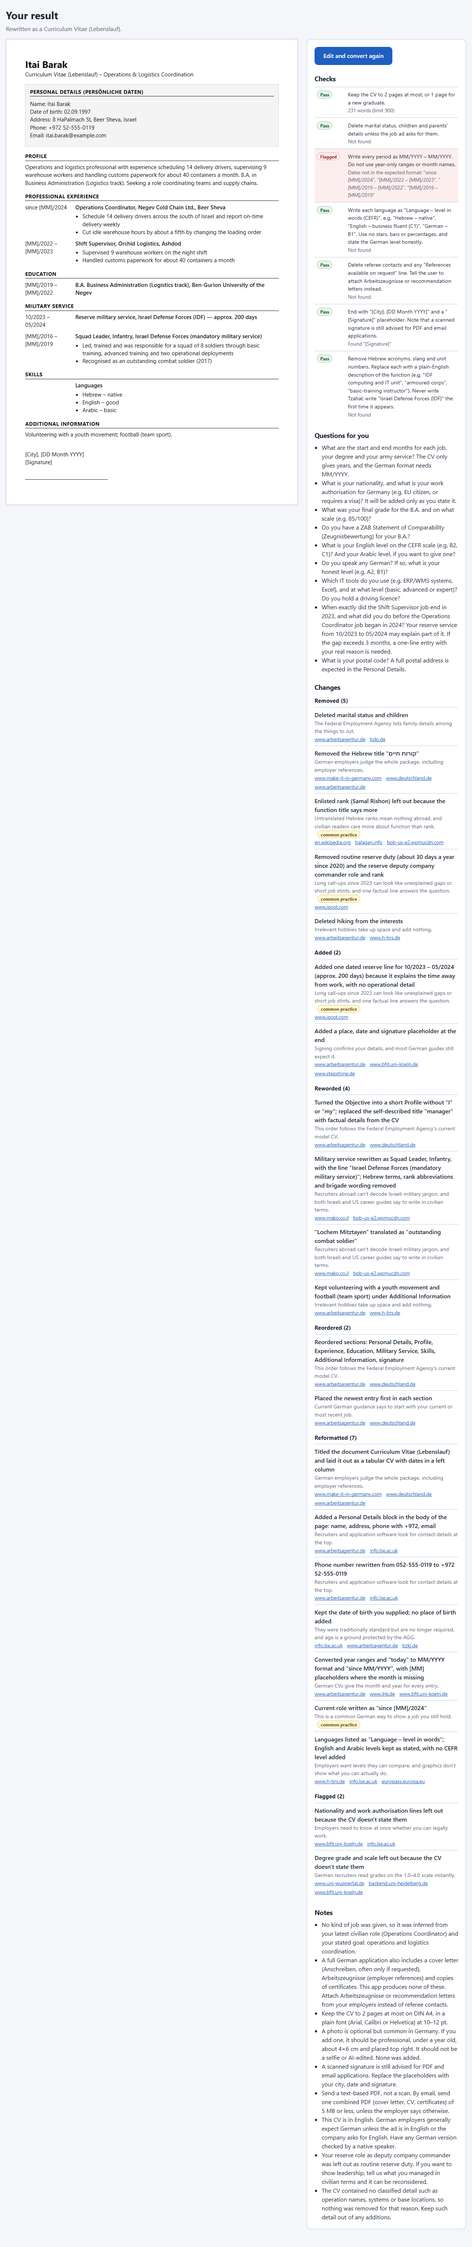
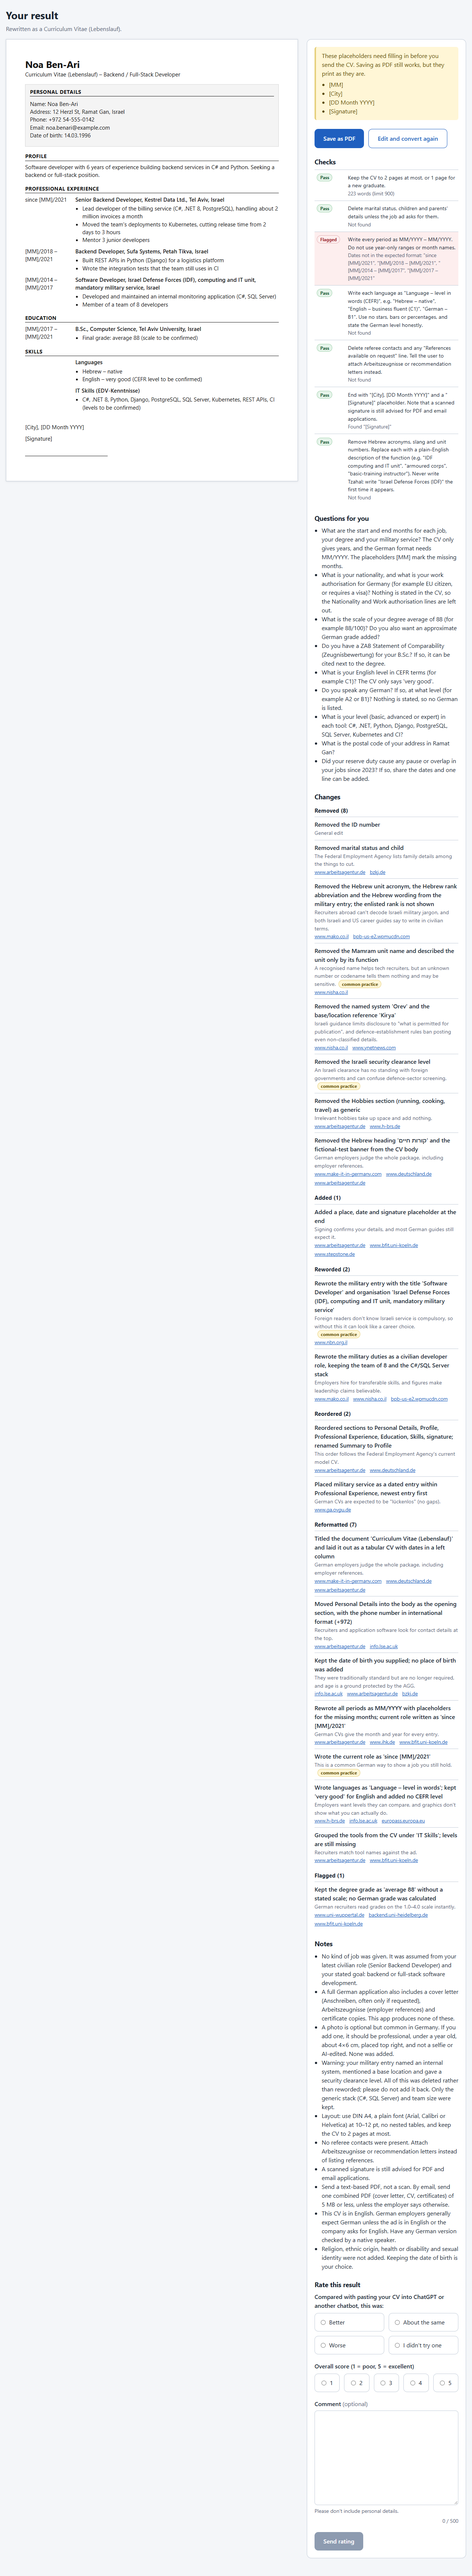
docs: README, demo outline, cut-line outcome and fresh screenshots (M9)

Changed region(s): [[0.6562, 0.0, 0.9688, 0.9992], [0.0312, 0.0, 0.5625, 0.1873], [0.0625, 0.1873, 0.125, 0.2186]]

diff --git a/docs/demo-video-outline.md b/docs/demo-video-outline.md
@@ -8,19 +8,17 @@
 |---|---|---|
 | 0:00–0:15 | An Israeli CV with the problems highlighted: date of birth, ID number, "Mamram, Samal", a years-only date range. | "This is a typical Israeli CV. Send it to a company in Berlin or Boston and half of it works against you: the date of birth, the ID number, and army jargon nobody abroad can read." |
 | 0:15–0:27 | The Convert page. | "CV Converter rewrites a CV for another country's hiring norms, and tells you exactly what it changed and why. It works both ways: Israelis applying abroad, and olim applying here." |
-| 0:27–0:52 | Choose Israeli CV → Germany. Paste the CV and press Convert; cut the wait. The result shows the tabular Lebenslauf with dates in MM/YYYY, a Personal Details block and a signature line. Scroll the changes list and open one source link (the Federal Employment Agency's guide). | "Germany expects a tabular CV, month-and-year dates and a signature. Every change is listed with the reason and a link to where the rule comes from. The army service became 'Software Developer, Israel Defense Forces, mandatory military service', with no acronyms and nothing classified." |
-| 0:52–1:05 | The checks panel (all pass, or one flag). The Questions list: "Do you have a German work permit?" | "Then the app checks its own output against the key rules, so they're verified, not just hoped for. If it needs a fact it doesn't have, like your work permit, it asks instead of guessing." |
-| 1:05–1:19 | Switch to Israel → US on the same CV. Show the Letter-size print preview and the word "résumé". | "Same CV to the US: a one-page résumé on US Letter paper, with no date of birth. 'Save as PDF' is the browser's own print dialog, with the right paper size set for you." |
-| 1:19–1:31 | The `uk-olah` fixture, CV from abroad → Israel: year-only dates, honest Hebrew level ("conversational, Ulpan Aleph"), the referee details removed. | "And for olim, the other way round: Israeli conventions, and an honest Hebrew level, because overstated languages get caught at interview." |
-| 1:31–1:49 | Under the hood: the `norms` table in pgAdmin or psql (rows with sources), then the architecture line from the README, then green CI and the test count. | "The rules live in Postgres: about 140 of them, each with its sources. That's the part a free chatbot doesn't have. React and Redux on the front, Express and Knex behind, Claude for the rewrite, deterministic checks after it. Your CV is never stored." |
-| 1:49–2:00 | The rating form, then an end card with the repo URL and "Paul Rivlin · Developers Institute Hackathon, Oct 2026". | "Next: my classmates test it on their own CVs and tell me whether it beat ChatGPT. Thanks for watching." |
+| 0:27–0:49 | Choose "My Israeli CV → abroad" and Germany. Paste `il-software-dev` and press Convert; cut the wait. The result shows the Lebenslauf with a date column, a Personal Details block and the "[City], [DD Month YYYY]" and "[Signature]" lines. Scroll the Changes list and open one source link (arbeitsagentur.de, the Federal Employment Agency). | "Germany expects a tabular CV and a signature. Every change is listed with its reason and a source link. The army service now reads 'Software Developer, Israel Defense Forces (IDF), computing and IT unit, mandatory military service, Israel': no acronyms, nothing classified." |
+| 0:49–1:04 | The date column: "since [MM]/2021", "[MM]/2018 – [MM]/2021". The date check marked Flagged. The placeholder notice listing [MM], [City], [DD Month YYYY] and [Signature]. The first question: "What are the start and end months for each job, your degree and your military service?" | "The CV only gave years, so the months show as [MM]. The app's own date check flags them, a notice lists every placeholder, and it asks for the months instead of inventing them." |
+| 1:04–1:19 | Same CV, Israel → United States. The résumé with no date of birth. The date check marked Flagged for "2021 – Present" and "2018 – 2021", and the question asking which months each job and the degree started and ended. Press Save as PDF and show the print preview on Letter. | "Same CV to the US: a résumé on US Letter, with no date of birth. Year-only dates are flagged here too, and it asks for the months. Save as PDF sets the paper size for you." |
+| 1:19–1:31 | `uk-olah`, "My CV from abroad → Israel": year ranges (2021–2024), Hebrew lowered from "fluent" to "Basic (Ulpan Aleph)", and, in the Changes list, the referees' names and contact details removed. | "For olim, the other way round: year ranges, no referees, and Hebrew lowered from 'fluent' to 'Basic (Ulpan Aleph)', because overstated languages get caught at interview." |
+| 1:31–1:49 | Under the hood: the `norms` table in pgAdmin or psql (rows with sources), then the architecture line from the README, then green CI and the test count. | "The rules live in Postgres: about 140 of them, each with its sources. That's what a free chatbot doesn't have. React and Redux in front, Express and Knex behind, Claude for the rewrite, deterministic checks after it. Your CV is never stored." |
+| 1:49–2:00 | Scroll to the end of the panel: the rating form, its last block. Then an end card with the repo URL and "Paul Rivlin · Developers Institute Hackathon, Oct 2026". | "Last, a rating form. Next, my classmates test it on their own CVs and tell me whether it beat ChatGPT. Thanks for watching." |
 
 **Recording notes**
 - The video is submitted as a Loom link. Record in Loom, or edit the clips as before and upload the finished video to Loom. Check it runs no longer than 2:00 and that the link opens for someone who isn't signed in.
 - Record each row as its own clip at 1920×1080 with the browser zoomed to 125%, then join them (Clipchamp is built into Windows 11).
 - Run the conversions before recording and cut the waiting out of the video. Don't fake any output; just trim the wait.
 - Pre-fill the text box from the fixtures; don't type on camera.
+- The German date format varies from run to run. In three runs of `il-software-dev` on 19 Oct, the missing months came out once as "[MM]/2021", once as "MM/2021" and once as plain years. Record a run that shows [MM]. If the run you keep shows something else, change the 0:49 voice-over to say what's on screen.
 - Keep the voice-over at about 150 words a minute. The draft above is about 260 words, roughly 105 seconds, which leaves room for pauses. The timings above give each line enough time. Add captions; judges often watch without sound.
-- If M7 (upload) shipped, swap the paste at 0:27 for a .docx upload; it reads better on screen.
-- If there's spare time at the end of day 2, record the 0:27–1:31 clips then, as insurance.
-- If M8 (ratings) didn't ship, end on the norms table and replace the rating shot with the end card.

diff --git a/README.md b/README.md
@@ -6,8 +6,21 @@ It works in both directions through Israel:
 - **Israelis applying abroad:** an Israeli CV, including army service, into a US résumé, a UK CV or a German Lebenslauf.
 - **Olim and other newcomers:** a CV from abroad into Israeli norms.
 
+![The result page for an Israeli CV rewritten as a German Lebenslauf: the CV with a date column on the left, and the placeholder notice and rule checks on the right](docs/screens/readme-result-de-1280.png)
+
 ## Status
-Being built during the Developers Institute hackathon (Full Stack + AI, part-time, May 2026 – December 2026), 15–20 October 2026. Work started on 13 October, the original start date, before the hackathon was postponed. Each milestone lands as its own pull request.
+Built during the Developers Institute hackathon (Full Stack + AI, part-time, May 2026 – December 2026), 15–20 October 2026. Work started on 13 October, the original start date, before the hackathon was postponed. Each milestone landed as its own pull request.
+
+What shipped:
+- Paste a CV as text.
+- Convert in four directions: an Israeli CV into a US résumé, a UK CV or a German Lebenslauf, and a CV from abroad into Israeli norms.
+- Per-rule checks on the result, each marked Pass or Flagged.
+- Every change explained, with the rule's source.
+- Country layouts: a single column for the US, the UK and Israel; for Germany, a date column, a Personal Details block and a signature line.
+- Save as PDF on A4 or US Letter, as the country expects.
+- Ratings: a short form on the result page.
+
+File upload (.docx and .pdf, milestone M7) was dropped at the 18 October time box. Paste still works without it.
 
 ## Team
 Paul Rivlin, solo ([GitHub: privlin-lgtm](https://github.com/privlin-lgtm)).
@@ -64,7 +77,7 @@ Paul Rivlin, solo ([GitHub: privlin-lgtm](https://github.com/privlin-lgtm)).
    ```
    npm run dev
    ```
-   The client runs on port 5173 and the API on port 3001. The app opens on the Convert page. Paste a CV, pick a direction and click Convert; after up to a minute you land on the result page. It shows the rewritten CV on the left, laid out for the target country (for Germany, a date column, a Personal Details block and a signature line), and a panel on the right with the rule checks, questions for you, the changes with their reasons and sources, and notes. The result lives only in this browser tab: reload and you're sent back to the Convert page. Save as PDF opens your browser's print dialog, set to the paper size the country expects (Letter for the US, A4 for the rest); if the CV still has bracketed placeholders such as [City], a notice lists them first. Rating a result comes in a later milestone.
+   The client runs on port 5173 and the API on port 3001. The app opens on the Convert page. Paste a CV, pick a direction and click Convert; after up to a minute you land on the result page. It shows the rewritten CV on the left, laid out for the target country (for Germany, a date column, a Personal Details block and a signature line), and a panel on the right with the rule checks, questions for you, the changes with their reasons and sources, and notes. The result lives only in this browser tab: reload and you're sent back to the Convert page. Save as PDF opens your browser's print dialog, set to the paper size the country expects (Letter for the US, A4 for the rest); if the CV still has bracketed placeholders such as [City], a notice lists them first. The last block in the panel is a rating form: compared with a chatbot, was the result better, the same or worse (or you didn't try one), a score from 1 to 5 and an optional comment; it saves the rating, never the CV.
 7. Run the tests and the linter:
    ```
    npm test
@@ -72,8 +85,16 @@ Paul Rivlin, solo ([GitHub: privlin-lgtm](https://github.com/privlin-lgtm)).
    ```
    The tests use only the `cv_converter_test` database (`DATABASE_URL_TEST`), which they migrate and seed themselves before the run. They use a fake model, so they need no `ANTHROPIC_API_KEY` and make no calls to the Claude API. Only pressing Convert in the running app calls it.
 
+## Limitations
+- English in and out only.
+- US, UK, Germany and Israel only.
+- Paste only; there is no file upload.
+- Some rules are labelled "common practice" because their sources haven't been verified.
+- Some checks test only part of their rule.
+- Not deployed; it runs locally only.
+
 ## Privacy
-The app never stores a CV. It is sent to the Claude API to be rewritten and shown only to the user. All tests use made-up CVs.
+The app never stores a CV. It is sent to the Claude API to be rewritten and shown only to the user. Anthropic deletes API inputs and outputs within 30 days, and keeps them for up to 2 years only if they are flagged for a usage-policy breach. The app logs no CV text: each conversion logs only the model, the direction, the status, the token counts and the time taken. All tests use made-up CVs.
 
 ## Planning documents
 - [Intent](intent/2026-10-10-mvp/intent.md)

diff --git a/intent/2026-10-10-mvp/plan.md b/intent/2026-10-10-mvp/plan.md
@@ -277,6 +277,7 @@ git log -p --all | grep -nE "sk-ant-(api|admin)[0-9]{2}-[A-Za-z0-9_-]{20,}|-----
 2. **Checkpoint 2** (day 2): M5 past 2½ hours → single-column German layout.
 3. **Checkpoint 3** (end of Sat 17 Oct): M6 not merged → drop M7.
 4. **M7/M8 time box (Sun 18 Oct):** whatever of M7 and M8 isn't merged at 90 minutes. Ratings move to the week after, before testers; paste still works without upload.
+   - **Outcome:** M7 (upload) was dropped at the 18 Oct time box. M8 (ratings) shipped.
 
 **Already below the line (after the hackathon):**
 - The Vercel deploy and rate limiting, before the tester round.
